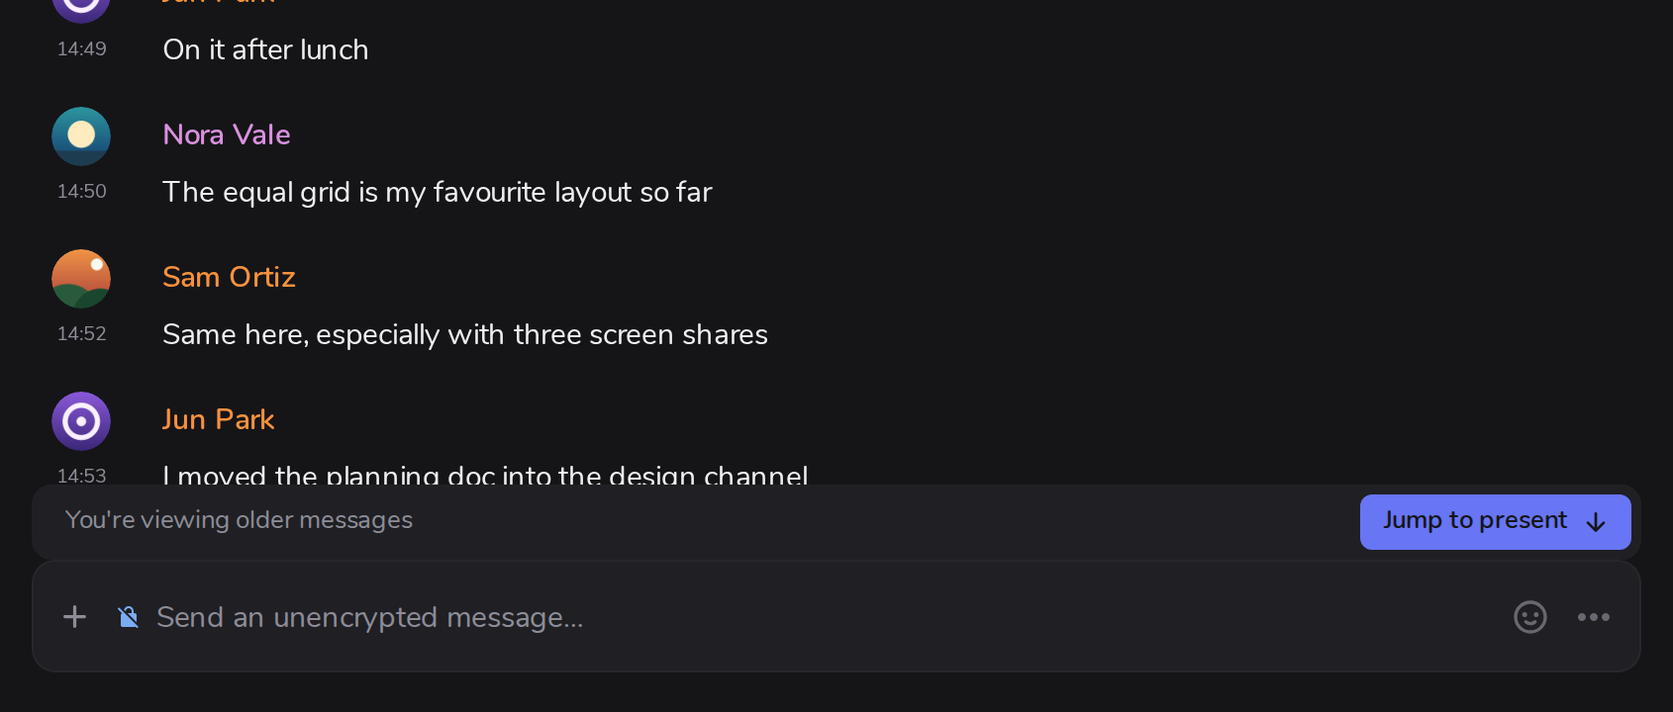
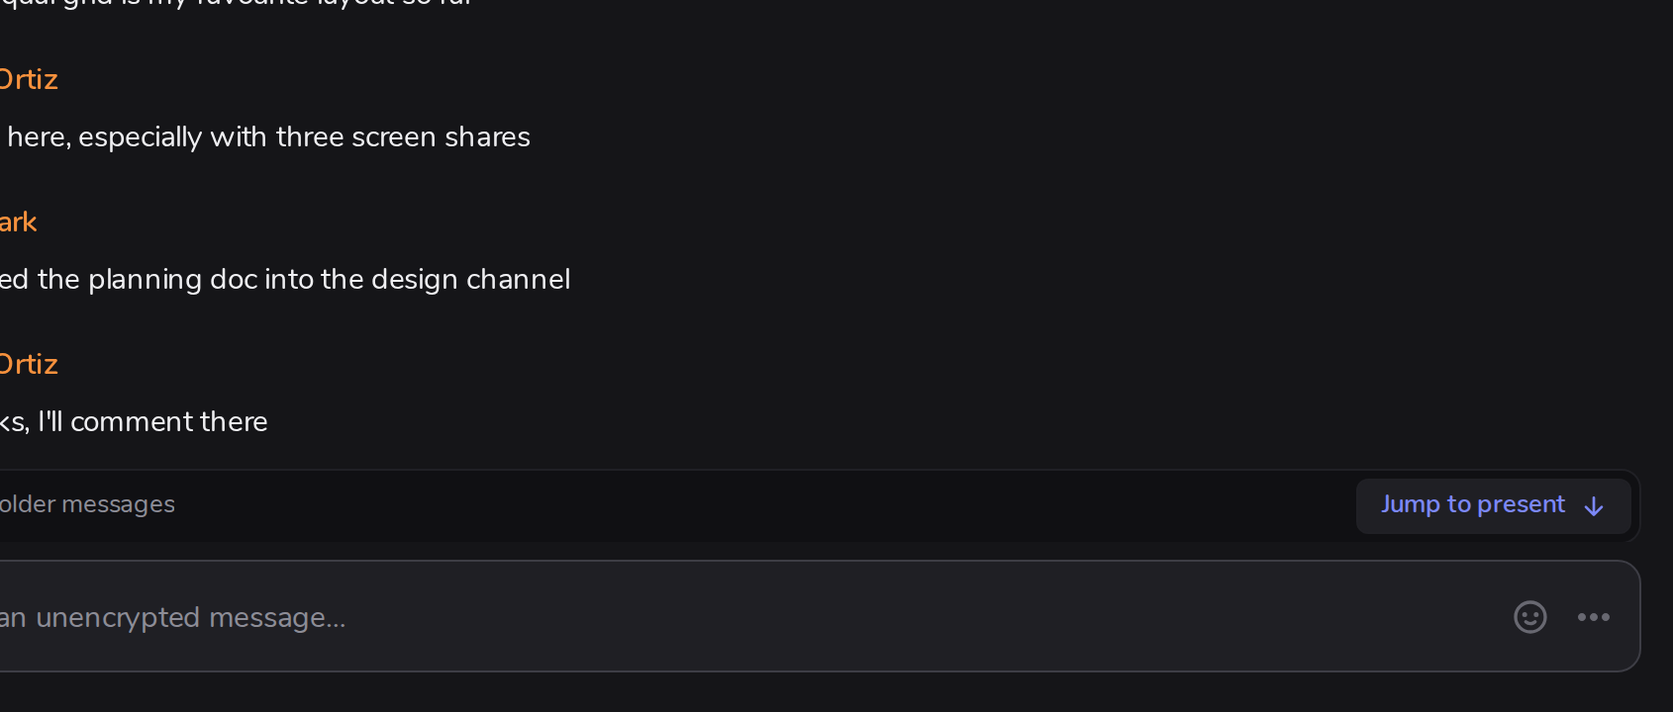
Release notes for 1.12.35-intercom.13: updates within minutes, the update button, what's new, the dark jump bars
docs/RELEASING.md lists what belongs to a release besides the build; tools/release.sh warns when the README or the list of changes did not change since the last tag.

diff --git a/docs/UPDATES.md b/docs/UPDATES.md
@@ -9,13 +9,34 @@ it comes from, which catches a broken download but is no proof of who made it.
 
 ## Desktop
 
+| The update button in the rail | After an update |
+| --- | --- |
+| ![A download arrow with a red dot above the settings, and its card: InterCom 1.12.35-intercom.13, Ready to install, What's new](images/update-rail.png) | ![The dialog "What's new in InterCom 1.12.35-intercom.13"](images/whats-new.png) |
+
 | Settings → InterCom | The status bar over the user panel |
 | --- | --- |
-| ![The InterCom settings tab with the update switches](images/settings-updates.png) | ![Downloading 1.12.35-intercom.11 · 41 %](images/update-bar.png) |
+| ![The InterCom settings tab: the four switches, Restart to update, and what is new in the update](images/settings-updates.png) | ![Downloading 1.12.35-intercom.11 · 41 %](images/update-bar.png) |
 
-**When it looks.** At every start, before the window opens, and 30 seconds after the start and
-every six hours while it runs. A check asks GitHub for the last five releases, sends the ETag of
-the last answer (an unchanged list costs no download) and gives up after 8 seconds.
+**When it looks.** At every start, before the window opens, and 30 seconds after the start.
+While it runs: every five minutes, and when you come back to the window, the computer wakes up
+or the network returns (once a minute at most). Nothing pushes a release to the app; it asks,
+often and cheaply:
+
+- The frequent look asks github.com for the releases feed (`releases.atom`) with the ETag of the
+  last answer. While nothing was released the answer is "304 Not Modified" without a body.
+- Only when the feed changed are the releases themselves asked for, from the GitHub API: the
+  last five, again with the ETag of the last answer, 8 seconds at most. This also happens every
+  six hours whatever the feed says, and a minute and a half after a changed feed that showed
+  nothing new (the API may answer from a copy that is a minute old).
+- The API allows an address without a login 60 requests an hour, and counts unchanged ("304")
+  answers too. That is why the frequent look goes to the feed, which is outside that limit: an
+  hour without a release costs the API nothing.
+- When GitHub refuses for too many requests (HTTP 403 or 429), nothing is asked until the time
+  it names (`Retry-After`, or `x-ratelimit-reset`): a quarter of an hour where it names none,
+  two hours at most. *Check now* then says how long.
+
+With *Check for updates every few minutes* off, the releases are asked for every six hours and
+nothing else is.
 
 **At a start.** If a newer release is out, it is downloaded, checked, installed, and InterCom
 comes up as the new version, with a small window saying what it is doing ("Checking for
@@ -23,18 +44,39 @@ updates…", "Downloading update · 42 %", "Installing…", "Starting…"). GitH
 start that finds nothing three at most. Offline, or when the download stalls (20 s without
 progress, 5 minutes in all), InterCom starts as it is and offers the update in the app. With
 `--hidden` it does the same without the window. A release that did not install at a start is
-not tried at a start again; it stays behind *Restart to update*.
+not tried at a start again; it stays behind the update button.
 
-**While it runs.** A new release is downloaded and checked, then the status bar over the user
-panel and a toast offer *Restart to update* (also in the tray menu, and as a dot on the settings
-button of the user panel). Nothing is installed before that click. The bar shows each step
-("Downloading 1.12.35-intercom.11 · 42 % · 78 MB / 186 MB · 12 MB/s", "Verifying checksum…",
-"Unpacking…", "… is ready" with *Restart*); a click on it lists the last steps with their times.
-An error stays, with *Retry* and *Details*.
+**While it runs.** A new release is downloaded and checked by itself. Meanwhile, and until it is
+installed, the rail of spaces has an **update button** above the settings: a download arrow with
+a red dot, and a ring that fills with the download. Pointing at it shows the version, where
+the update stands and what is new in it. A click:
+
+- on a ready update, installs it and starts InterCom again;
+- while it downloads or is checked, is remembered: InterCom installs it and starts again by
+  itself as soon as the file is verified;
+- after a failure, tries again;
+- for an install that cannot replace itself, opens the release page.
+
+Nothing is installed without that click (or *Restart to update* in the status bar, the toast,
+the settings or the tray menu, which do the same for a ready update). The status bar over the
+user panel shows each step ("Downloading 1.12.35-intercom.11 · 42 % · 78 MB / 186 MB · 12 MB/s",
+"Verifying checksum…", "Unpacking…", "… is ready" with *Restart*); a click on it lists the last
+steps with their times. An error stays, with *Retry* and *Details*. A dot on the settings button
+of the user panel says that an update is ready.
+
+**What's new.** The update button's card and Settings → InterCom show the notes of the release
+that is offered, and of every release between it and the one that runs, newest first. After an
+update InterCom shows "What's new in InterCom" with the version once, with every release the update
+brought; any way of closing it counts as seen. A first install shows nothing. The notes are the
+text of the GitHub release (the section of the [changelog](../CHANGELOG.md)), kept in the profile
+with the last check, so they are shown without a connection. They are drawn as text and lists:
+HTML in them is not interpreted, pictures are not loaded, and links open in the browser.
 
 **Settings → InterCom** has the version, *Check for updates automatically*, *Update
-automatically on launch* (it needs the first; both on by default), *Check now* and the release
-notes. Both switches are kept in `<profile>/intercom-updater.json`.
+automatically on launch* and *Check for updates every few minutes* (both need the first), *Show
+what's new after updates* (all on by default), *Check now*, and the notes of an update that is
+offered. The switches, and the release whose notes you have seen, are kept in
+`<profile>/intercom-updater.json`.
 
 **Linux** (the unpacked `tar.gz`). The new archive is unpacked beside the install directory as
 `<dir>.new`; on restart `<dir>` becomes `<dir>.old` (an older backup is deleted) and `<dir>.new`
@@ -63,12 +105,15 @@ updates comes back with its window shown.
 **Never updates:** a build that is not a release, an unpackaged run, and a run with
 `--no-update`.
 
-**Logged:** every check is an `update_check` record in the diagnostics log, every step of the
-updater an `updater` record, every start an `update_on_launch` record. See
+**Logged:** every check, and every look at the feed, is an `update_check` record in the
+diagnostics log with what asked for it, every step of the updater an `updater` record, every
+start an `update_on_launch` record. See
 [DIAGNOSTICS.md](DIAGNOSTICS.md).
 
 ### Old installs
 
+- 1.12.35-intercom.12 and older look every six hours, have no update button in the rail and
+  show no release notes; they update themselves to a newer release as before.
 - 1.12.35-intercom.4 and older have no updater: install a newer release by hand once.
 - On Linux, 1.12.35-intercom.5 to .9 cannot install updates by themselves (their updater failed
   on the install directory): install 1.12.35-intercom.10 or newer by hand once. Windows was not

diff --git a/docs/CHANGES-FROM-ELEMENT.md b/docs/CHANGES-FROM-ELEMENT.md
@@ -97,9 +97,9 @@ sources in the share dialog above.
 <p><img src="images/batch-upload.png" width="460" alt="The Upload 3 images dialog with the gallery preview and a caption field"><br>
 <sub>Several pictures, one dialog</sub></p>
 
-| Far back: the bar on the composer | Unread above: the bar along the top |
+| Far back: the bar above the composer | Unread above: the bar along the top |
 | --- | --- |
-| ![You're viewing older messages, with Jump to present, on the composer](images/jump-far.png) | ![24 new messages since 15:05, with Mark as read, along the top of the timeline](images/jump-unread.png) |
+| ![You're viewing older messages, with Jump to present, a dark bar above the composer](images/jump-far.png) | ![12 new messages since 16:13, with Mark as read, a dark bar along the top of the timeline](images/jump-unread.png) |
 
 | Change | Element | InterCom | Since |
 | --- | --- | --- | --- |
@@ -109,8 +109,8 @@ sources in the share dialog above.
 | Sending a picture | The thumbnail is made and uploaded first, then the picture | The picture's upload starts at once and the thumbnail is made beside it; the blurhash comes from a 64 px copy; decoding is off the main thread | .4 |
 | A failed upload | Fails | Tried once more after 1.5 s (no answer, 5xx, 408, 429); on servers with Matrix Authentication Service an upload renews an expiring sign-in token itself | .5, .6 |
 | HTTP/3 | On | Off by default, because uploads stalled over it behind some proxies; `--enable-quic` turns it on | .5 |
-| Back to the newest messages | A round button with a chevron and an unread badge | As in Discord: far back (more than one and a half screens, or the newest messages not loaded) a bar on the composer, *You're viewing older messages* or *N new messages*, with **Jump to present**; a little way up a small arrow with the count; nothing at the newest message. In the classic timeline and in the labs *New timeline* | .12 |
-| Unread messages above | A round button with a dot, a small ✕ under it to mark them read | A bar along the top: *12 new messages since 14:32*, which leads to the first, and **Mark as read** | .12 |
+| Back to the newest messages | A round button with a chevron and an unread badge | As in Discord: far back (more than one and a half screens, or the newest messages not loaded) a bar above the composer, *You're viewing older messages* or *N new messages*, with **Jump to present**; a little way up a small arrow with the count; nothing at the newest message. The bar is the room list's dark surface with a hairline, the button a raised one with the accent in its words; in a narrow column the text gives way and the button stays. In the classic timeline and in the labs *New timeline* | .12, .13 |
+| Unread messages above | A round button with a dot, a small ✕ under it to mark them read | A dark bar along the top: *12 new messages since 14:32*, which leads to the first, and **Mark as read** in the accent | .12, .13 |
 | Escape and Shift+Page Up in the labs *New timeline* | Do nothing | Mark everything read and jump to the newest message; jump to the first unread one | .12 |
 | Labs *New timeline* after a sync with a gap | Stays on the old timeline: a sent message vanishes, nothing new is shown | Follows the new live timeline | .11 |
 | Account settings | Sections flash up and vanish on servers with Matrix Authentication Service | Drawn once the server has answered | .6 |
@@ -136,14 +136,21 @@ Why it looks like this: [DESIGN.md](DESIGN.md).
 
 ## App, updates & diagnostics
 
+| The update button in the rail, with what is new | After an update: what's new |
+| --- | --- |
+| ![A download arrow with a red dot above the settings, and its card: InterCom 1.12.35-intercom.13, Ready to install, What's new](images/update-rail.png) | ![The dialog "What's new in InterCom 1.12.35-intercom.13" with the release notes and Got it](images/whats-new.png) |
+
 | Settings → InterCom | While an update downloads |
 | --- | --- |
-| ![The InterCom settings tab: version, the two update switches, Restart to update, Check now](images/settings-updates.png) | ![The status bar over the user panel: Downloading 1.12.35-intercom.11, 41 %](images/update-bar.png) |
+| ![The InterCom settings tab: version, the four switches, Restart to update, Check now, and what is new in the update](images/settings-updates.png) | ![The status bar over the user panel: Downloading 1.12.35-intercom.11, 41 %](images/update-bar.png) |
 
 | Change | Element | InterCom | Since |
 | --- | --- | --- | --- |
 | Name and profile | Element's (`~/.config/Element`) | Own name, icon, profile directory (`~/.config/InterCom`, `%APPDATA%\InterCom`) and URL scheme: installs next to Element without sharing data with it | .1 |
-| Updates | Element Desktop updates on Windows and macOS; on Linux not at all | **Updates itself** from this repository's GitHub releases, checked against `SHA256SUMS`: before the window opens, and every six hours while it runs, with a status bar and *Restart to update* (also in the tray). Linux swaps the install directory; Windows runs the installer silently. See [UPDATES.md](UPDATES.md) | .5 – .10 |
+| Updates | Element Desktop updates on Windows and macOS; on Linux not at all | **Updates itself** from this repository's GitHub releases, checked against `SHA256SUMS`: before the window opens, and while it runs, with a status bar and *Restart to update* (also in the tray). Linux swaps the install directory; Windows runs the installer silently. See [UPDATES.md](UPDATES.md) | .5 – .10 |
+| How soon an update arrives | Squirrel's schedule, hourly | **Within minutes**: every five minutes, and when the window is focused again, the computer wakes or the network returns, one conditional request asks whether the releases feed changed; the GitHub API is asked only when it did, and every six hours. A rate limit is waited out. *Check for updates every few minutes* turns it off | .13 |
+| Update button | A toast | In the **rail of spaces**, above the settings, while an update is available, downloading or ready: a download arrow with a red dot and a ring for the download. **One click** installs and restarts, at once or as soon as the download is verified | .13 |
+| Release notes | A link in the toast | **What's new** in the update button's card and in Settings → InterCom (every release that was skipped, newest first), and once in a dialog after an update. Shown as text: no HTML, no pictures loaded, links open in the browser. *Show what's new after updates* turns the dialog off | .13 |
 | Hardware video on Linux | Chromium's defaults | VA-API decoding, and encoding where the driver has it (Intel, AMD; not NVIDIA). `--no-hw-video` leaves it to Chromium | .1 |
 | Diagnostics log | Logs for bug reports | A JSON-lines log per run in `<profile>/logs/` (200 MB at most), *Open diagnostics folder* in the Help menu and the tray, and `tools/diag-summary.py`, which turns logs into a verdict per feature. Nothing is uploaded | .1 |
 | Command line | `--profile`, `--hidden`, `--no-update` | Also the call shortcuts above, `--no-hw-video`, `--hw-video-zero-copy`, `--enable-quic`, `--no-global-shortcuts`, `--global-shortcuts-portal`; `--no-update` stops InterCom's updater too | .1 – .6 |

diff --git a/CHANGELOG.md b/CHANGELOG.md
@@ -3,6 +3,65 @@
 Versions are `<Element Web version>-intercom.<n>`: the upstream release InterCom is based on,
 followed by the InterCom revision.
 
+## 1.12.35-intercom.13
+
+| The update button in the rail, with what is new | After the update |
+| --- | --- |
+| ![A download arrow with a red dot above the settings; beside it a card: InterCom 1.12.35-intercom.13, Ready to install, What's new, Click to restart and update](https://raw.githubusercontent.com/c4g7-dev/InterCom/v1.12.35-intercom.13/docs/images/update-rail.png) | ![The dialog "What's new in InterCom 1.12.35-intercom.13" with the release notes, All release notes and Got it](https://raw.githubusercontent.com/c4g7-dev/InterCom/v1.12.35-intercom.13/docs/images/whats-new.png) |
+
+<sub>Taken against a made-up homeserver: the people and messages do not exist.</sub>
+
+- **A release reaches a running InterCom within minutes.** It looks every five minutes, and when
+  you come back to the window, the computer wakes up or the network returns, instead of every
+  six hours. *Check for updates every few minutes* in Settings → InterCom (on by default) turns
+  this off.
+- **An update button in the rail of spaces**, above the settings: a download arrow with a red
+  dot while a newer release is available, downloading or ready, and nothing while InterCom is up
+  to date. A ring around it fills with the download. Pointing at it (or focusing it) opens a
+  card with the version, where the update stands, and what is new in it.
+- **One click updates.** On a ready update the click installs it and restarts InterCom. While it
+  is still downloading or being checked, the click is remembered: InterCom installs and restarts
+  by itself as soon as the file is verified, with no second click. After a failure the click
+  tries again; for an install that cannot replace itself it opens the release page. The status
+  bar, the dot in the user panel, the settings and the tray show the same state as before.
+- **What's new.** The card of the update button and Settings → InterCom show the release notes
+  of the update that is offered, of every release since the one that runs if several were
+  skipped, newest first. After an update, InterCom shows "What's new in InterCom" with the version
+  once, with *Got it* and a link to all release notes; *Show what's new after updates* in
+  Settings → InterCom turns that off. The notes are kept with the last check, so they are there
+  without a connection. They are shown as text and lists: no HTML of the notes reaches the
+  page, pictures are left out, and links open in the browser.
+- The tooltip of the settings in the rail names the InterCom version that runs.
+- **The "Jump to present" bar belongs to the dark interface.** It sat right on the composer in a
+  lighter grey with a solid accent button. Now there is a gap between it and the composer, its
+  surface is the room list's (darker than the timeline) with a hairline around it, the text is
+  the secondary grey, and the button is a raised dark surface with the accent only in its
+  words. The small arrow and the bar "N new messages since … · Mark as read" at the top are
+  drawn the same way; the top bar is no longer a solid accent block.
+- **The button of those bars is never cut off.** In a narrow column (a small window with the
+  right panel open) the text gave way too late and the button ran out of the bar. Now the text
+  goes first, then the button's words, and the arrow stays. The bars measure the timeline's
+  column, not the window. A cut-off button could be reproduced only in a column narrower than
+  about 140 px; it was measured from 600 px of window up, with the right panel open and closed.
+- How it asks: the releases feed of github.com with the ETag of the last answer, one small
+  request that is answered "304" with no body while nothing was released (once a minute at most
+  for the window, a wake-up and the network). Only when the feed changed, and every six hours
+  regardless, are the releases themselves asked for from GitHub's API.
+- Why the feed: the API allows an address without a login 60 requests an hour, and, measured,
+  counts an unchanged ("304") answer against that as well (its documentation exempts them only
+  for requests with a login). Polling the API every five minutes would use 12 of the 60, shared
+  by everything behind the same address. The feed is not part of that limit.
+- When GitHub refuses for too many requests (403 or 429), InterCom leaves it alone until the
+  time it names (`Retry-After`, or `x-ratelimit-reset`), a quarter of an hour if it names none
+  and two hours at most. *Check now* says "too many requests, try again in N min" instead of
+  "in an hour".
+- Diagnostics: `update_check` records say what asked (`reason`: `launch`, `startup`,
+  `interval`, `focus`, `online`, `resume`, `recheck`, `manual`, `click`), looks at the feed are
+  records with `probe: true`, and a refusal carries `rateLimitedForMs`.
+- Checked with unit tests and on screenshots of the web app in a headless browser, against a
+  made-up homeserver and a stand-in for the desktop app's updater; the desktop app itself was
+  not started.
+
 ## 1.12.35-intercom.12
 
 | Far back: the bar on the composer | Unread above: the bar along the top |

diff --git a/docs/RELEASING.md b/docs/RELEASING.md
@@ -1,0 +1,54 @@
+# Releasing
+
+A release is the built apps and the public repository saying what they do. `tools/release.sh`
+(desktop) and `tools/android-release.sh` (Android) do the first; this list is the second. Go
+through it before the tag: the release notes and the pictures in them are taken from the tagged
+commit.
+
+## Before the tag
+
+1. **`CHANGELOG.md`** has a section `## <version>` (`## Android <version>` for Android): what
+   changed, for the people who use the app, the most visible first. It becomes the notes of the
+   GitHub release, and the desktop app shows it under "What's new" as text and lists; pictures
+   and tables of pictures are left out there, so no sentence may depend on one. Say how each
+   change was checked, and what was not.
+2. **`README.md`**: if the change is one a user sees, the highlights ("What you get") and the
+   comparison table still say what the app does.
+3. **`docs/CHANGES-FROM-ELEMENT.md`**: a row for every change in behaviour compared to Element,
+   or the changed row, with the version in **Since** (`.13`, `A.8`).
+4. The document of the part that changed, when it did:
+   [`UPDATES.md`](UPDATES.md) (how the apps update), [`ANDROID.md`](ANDROID.md),
+   [`DESIGN.md`](DESIGN.md) (colours, surfaces, arrangement),
+   [`DIAGNOSTICS.md`](DIAGNOSTICS.md) (new records or fields),
+   [`AUDIO-LINUX.md`](AUDIO-LINUX.md), [`BUILDING.md`](BUILDING.md).
+5. **Screenshots** in `docs/images/` for what looks different: new ones, or the old ones
+   replaced. Taken from the real interface with made-up people on `example.org` only, never
+   from a real account. Look at each before committing it. Pictures in the changelog are linked
+   by the tag (`https://raw.githubusercontent.com/c4g7-dev/InterCom/v<version>/docs/images/…`),
+   so that old notes keep their pictures.
+6. Everything is committed: this repository on `main`, the forks on `intercom`.
+
+`tools/release.sh` warns, and goes on, when `README.md` or `docs/CHANGES-FROM-ELEMENT.md` has
+not changed since the last release tag. A release that changes nothing a user sees is the one
+case where that is right.
+
+## The release
+
+```sh
+tools/release.sh 1.12.35-intercom.13          # builds here, tags, pushes, publishes
+tools/release.sh 1.12.35-intercom.13 --ci     # tags and pushes; the workflow builds and publishes
+```
+
+`tools/release.sh --help` has the rest; Android is in [BUILDING.md](BUILDING.md#releasing). The
+running apps find a release within minutes of its publication, so it is published only with
+all its files on it (the script keeps it a draft until then).
+
+## After the push
+
+1. The release has its files under their names (`InterCom-<version>-linux-x64.tar.gz`,
+   `InterCom-Setup-<version>-x64.exe`, `SHA256SUMS`), and `sha256sum -c SHA256SUMS` passes on a
+   fresh download.
+2. `intercomVersion` in the `package.json` inside `resources/app.asar` is the version, on both
+   platforms, and neither `app.asar` nor `webapp.asar` holds a path of the build machine.
+3. The links and pictures answer 200: the release page, the pictures of its notes, and the
+   pictures of every document that changed, as GitHub shows them.

diff --git a/README.md b/README.md
@@ -65,7 +65,8 @@ project, not affiliated with or endorsed by Element.
   *12 new messages since 14:32* and **Mark as read** along the top
 
 **App & updates**
-- Updates itself from these releases, before the window opens or with one click
+- Updates itself from these releases, before the window opens or with one click on the update
+  button in the rail; a new release shows up within minutes, with what is new in it
 - A near-black theme in layers and a light one; own profile, installs next to Element
 
 **Android**
@@ -83,7 +84,7 @@ project, not affiliated with or endorsed by Element.
 | Voice | Video rooms with a lobby; mute per call | Voice channels: one click, no ringing, who is in them; mute and deafen for the whole app, with shortcuts |
 | Pictures | One tile per picture | Galleries with a lightbox, one dialog for several, faster uploads |
 | Look | Element's themes | Near-black layers, one accent, no shadows, a Discord-like arrangement |
-| Desktop app | Squirrel updates on Windows and macOS | Self-updater on Linux and Windows, call diagnostics, VA-API video on Linux |
+| Desktop app | Squirrel updates on Windows and macOS | Self-updater on Linux and Windows that finds a release within minutes and shows what is new, call diagnostics, VA-API video on Linux |
 | Android | Calls in a web view; the native path (off) shares 1280 px / 15 fps without audio | Native calls, 1440p / 30 fps share with phone audio, per-tile volume, self-updater |
 
 Every change, with screenshots and the release that brought it:
@@ -183,6 +184,7 @@ Bugs in InterCom's changes belong in this repository's
 - [Sharing audio on Linux](docs/AUDIO-LINUX.md)
 - [Call diagnostics](docs/DIAGNOSTICS.md)
 - [Building](docs/BUILDING.md): desktop, Android and releases
+- [Releasing](docs/RELEASING.md): what belongs to a release besides the build
 - [Changelog](CHANGELOG.md)
 
 ## License and trademarks

diff --git a/docs/DIAGNOSTICS.md b/docs/DIAGNOSTICS.md
@@ -53,11 +53,16 @@ Every run of the desktop app writes one file:
   (`groupingOff`). No text, file name, URL, user or event ID is written; senders are numbered
 - `voice_state` records when mute or deafen changed, with where the change came from (`panel`,
   `hotkey`, `cli`, `call`, `tray`)
-- an `update_check` record for every look for an update: how long it took (`ms`, `headersMs`),
-  the HTTP status, whether GitHub answered "not modified" (`cached`) and the bytes read
+- an `update_check` record for every look for an update: what asked for it (`reason`: `launch`,
+  `startup`, `interval`, `focus`, `online`, `resume`, `recheck`, `manual`, `click`), how long it
+  took (`ms`, `headersMs`), the HTTP status, whether GitHub answered "not modified" (`cached`)
+  and the bytes read. A look at the releases feed is a record with `probe: true` and whether the
+  feed `changed`; a refusal for too many requests carries `rateLimitedForMs`
 - `updater` records for what the updater did: `check`, `up_to_date` or `update_found`,
   `download_start`, `download_verified` (with the SHA-256), `staged`, `ready`, `install_linux` or
-  `install_windows`, `manual` (the install cannot replace itself), `error`
+  `install_windows`, `manual` (the install cannot replace itself), `error`, `check_triggered`
+  (the focus, a wake-up or the network asked for a look), `check_rate_limited`,
+  `install_when_ready` (the update button was clicked before the update was ready)
 - an `update_on_launch` record for every start: `decision` (`skip`, `start`, `install`), `reason`,
   the `current` and `target` versions, the `ms` the start spent on it, `hidden`, `lastAttempt`
   (`none`, `installed`, `failed`) and `blocked` (a release no longer tried at a start). The
